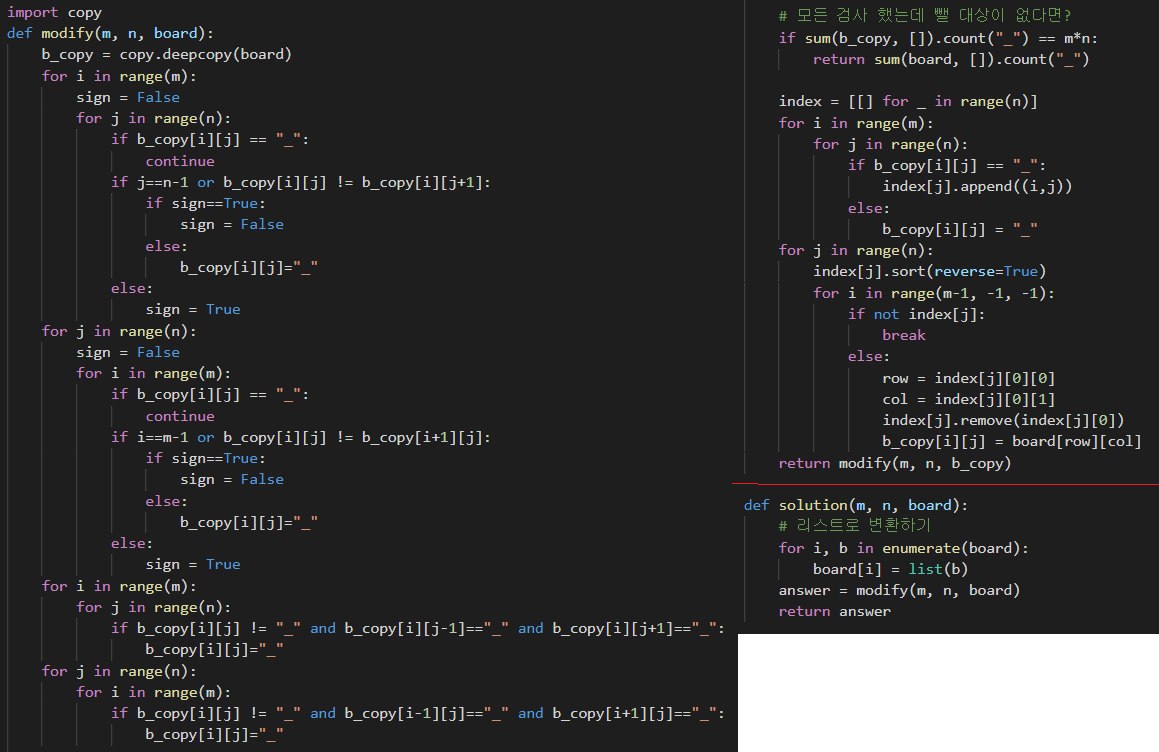
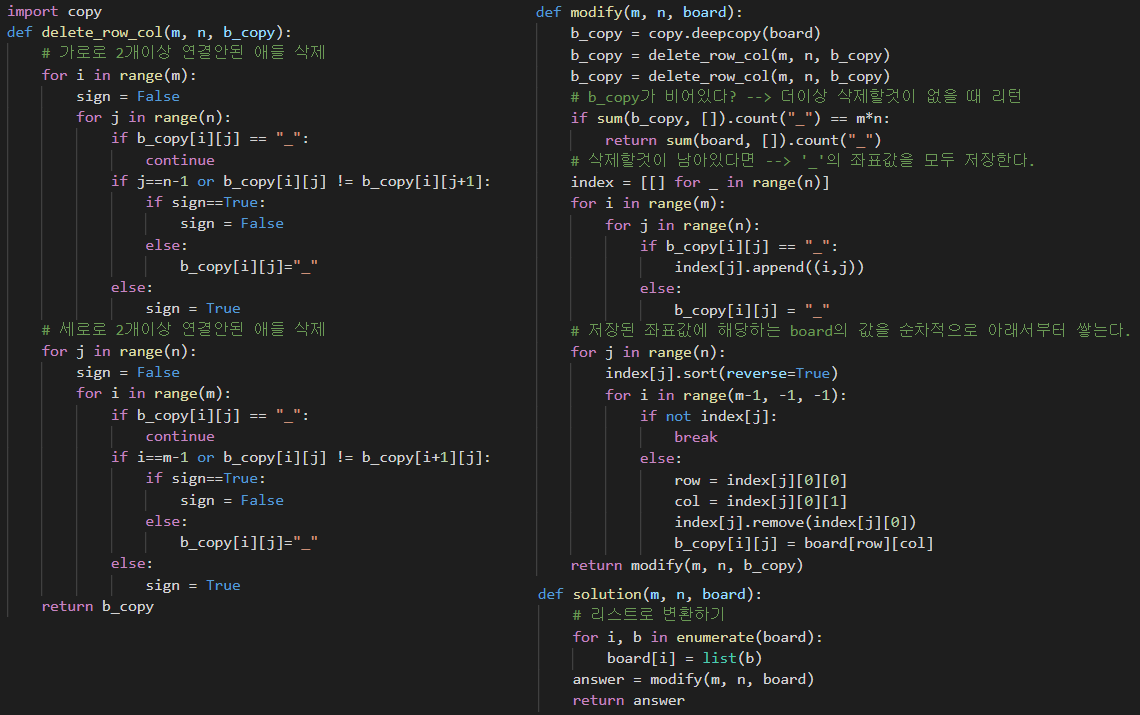
.

diff --git a/pyCode/18-1 프렌즈4블록.py b/pyCode/18-1 프렌즈4블록.py
@@ -1,6 +1,6 @@
-import copy   
-def modify(m, n, board):
-    b_copy = copy.deepcopy(board)  
+import copy
+def delete_row_col(m, n, b_copy):
+    # 가로로 2개이상 연결안된 애들 삭제
     for i in range(m):
         sign = False
         for j in range(n):
@@ -13,6 +13,7 @@ def modify(m, n, board):
                     b_copy[i][j]="_"                
             else:
                 sign = True
+    # 세로로 2개이상 연결안된 애들 삭제
     for j in range(n):
         sign = False
         for i in range(m):
@@ -25,19 +26,16 @@ def modify(m, n, board):
                     b_copy[i][j]="_"                
             else:
                 sign = True
-    for i in range(m):
-        for j in range(n):
-            if b_copy[i][j] != "_" and b_copy[i][j-1]=="_" and b_copy[i][j+1]=="_":
-                b_copy[i][j]="_"
-    for j in range(n):
-        for i in range(m):
-            if b_copy[i][j] != "_" and b_copy[i-1][j]=="_" and b_copy[i+1][j]=="_":
-                b_copy[i][j]="_"
+    return b_copy
 
-    # 모든 검사 했는데 뺄 대상이 없다면?
+def modify(m, n, board):
+    b_copy = copy.deepcopy(board)  
+    b_copy = delete_row_col(m, n, b_copy)
+    b_copy = delete_row_col(m, n, b_copy)
+    # b_copy가 비어있다? --> 더이상 삭제할것이 없을 때 리턴
     if sum(b_copy, []).count("_") == m*n:
         return sum(board, []).count("_")
-
+    # 삭제할것이 남아있다면 --> '_'의 좌표값을 모두 저장한다.
     index = [[] for _ in range(n)]
     for i in range(m):
         for j in range(n):
@@ -45,6 +43,7 @@ def modify(m, n, board):
                 index[j].append((i,j))
             else:
                 b_copy[i][j] = "_"
+    # 저장된 좌표값에 해당하는 board의 값을 순차적으로 아래서부터 쌓는다.
     for j in range(n):
         index[j].sort(reverse=True)
         for i in range(m-1, -1, -1):

diff --git a/pyCode/18-2 자물쇠와 열쇠.py b/pyCode/18-2 자물쇠와 열쇠.py
@@ -5,6 +5,14 @@ def rotate(key, m):
         for i in range(m-1, -1, -1):
             new[j].append(key[i][j])
     return new
+    
+'''    
+def rotate(key):
+    r_key = []
+    for k in list(zip(*key)):
+        r_key.append(list(reversed(k)))
+    return r_key
+'''
 
 def solution(key, lock):
     m = len(key)

diff --git a/review/18-1 카카오(2)_프렌즈4블록.md b/review/18-1 카카오(2)_프렌즈4블록.md
@@ -54,20 +54,23 @@ TMMTTJ
 ## 문제 풀이
 
 > ### 아이디어
-1. 
+1. 주어진 board에서 삭제해야할 범위를 찾아야하기 때문에 행 단위로 한번 검사하고 열 단위로 한번 검사한다.
+2. 검사시 단어가 2개이상 연결되지 않은 부분은 빈칸으로 바꾼다. 
+3. 삭제할 부분만 남게 된다면 나머지 부분의 모든 좌표를 리스트에 저장한다.
+4. 저장된 좌표값을 board에 대입하여 값을 불러오고, 그 값은 마지막 행부터 아래서 위로 순차적으로 대입한다.
+5. 위와 같은 방법을 더 이상 삭제할 범위가 없을때까지 재귀로 반복한다.
 
 <br>
 
 > ### 알게 된 함수/방법
-- 
+- `copy.deepcopy(복사할 리스트)` : 2차원 리스트는 기존의 .copy()함수로 복사가 되지 않는다. 따라서 2차원 리스트르 복사하려면 왼쪽의 형식에 복사하고싶은 리스트를 입력하면 복사된 리스트가 반환된다.
 
 <br>
 
 > ### 정답 코드
 ```python
-import copy   
-def modify(m, n, board):
-    b_copy = copy.deepcopy(board)  
+import copy
+def delete_row_col(m, n, b_copy):
     for i in range(m):
         sign = False
         for j in range(n):
@@ -92,18 +95,14 @@ def modify(m, n, board):
                     b_copy[i][j]="_"                
             else:
                 sign = True
-    for i in range(m):
-        for j in range(n):
-            if b_copy[i][j] != "_" and b_copy[i][j-1]=="_" and b_copy[i][j+1]=="_":
-                b_copy[i][j]="_"
-    for j in range(n):
-        for i in range(m):
-            if b_copy[i][j] != "_" and b_copy[i-1][j]=="_" and b_copy[i+1][j]=="_":
-                b_copy[i][j]="_"
+    return b_copy
 
+def modify(m, n, board):
+    b_copy = copy.deepcopy(board)  
+    b_copy = delete_row_col(m, n, b_copy)
+    b_copy = delete_row_col(m, n, b_copy)
     if sum(b_copy, []).count("_") == m*n:
         return sum(board, []).count("_")
-
     index = [[] for _ in range(n)]
     for i in range(m):
         for j in range(n):
@@ -129,3 +128,6 @@ def solution(m, n, board):
     answer = modify(m, n, board)
     return answer
 ```
+
+> ### 코드 설명
+<h4><a href="../pyCode/18-1 프렌즈4블록.py">이곳을 누르면 설명이 추가된 코드로 이동합니다.</a></h4>

diff --git a/readme.md b/readme.md
@@ -9,4 +9,4 @@
 - <a href="\pyCode">코드 보기</a>
 
 > ### 업데이트
-- 매주 2회 (회차당 2문제)
+- 주 1회 (회차당 파이썬-2, 자바-1)
